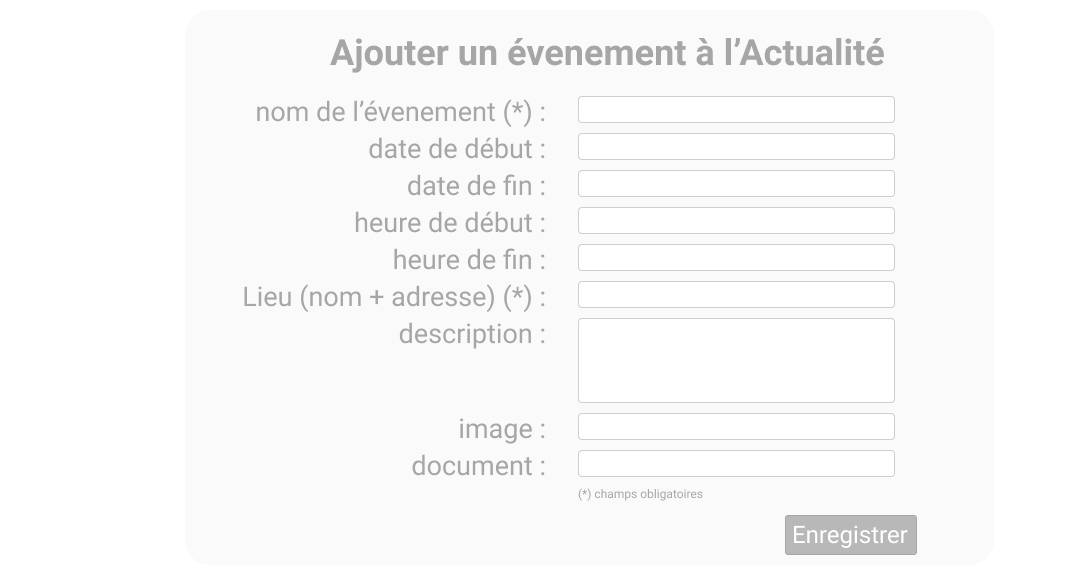
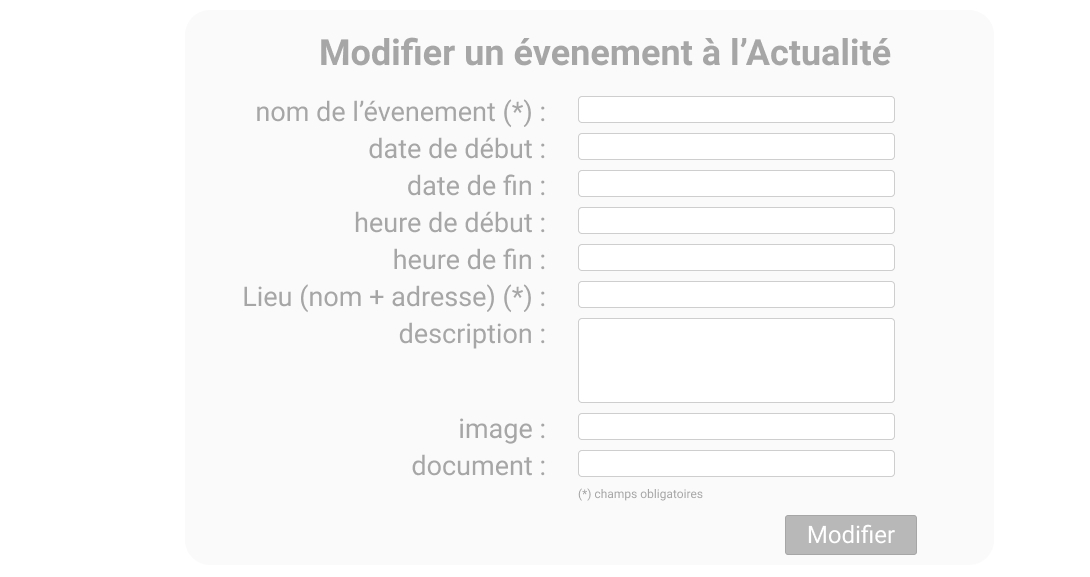
Intégration pages backend en HTML actu_add, actu_edit, actu_suppression, login

Changed region(s): [[0.2807, 0.0624, 0.811, 0.1248], [0.7174, 0.9047, 0.8422, 0.9671]]

diff --git a/CMS Backoffice/server php/views/actu_add.html b/CMS Backoffice/server php/views/actu_add.html
@@ -4,26 +4,69 @@
   <meta charset="UTF-8">
   <meta name="viewport" content="width=device-width, initial-scale=1.0">
   <meta http-equiv="X-UA-Compatible" content="ie=edge">
+  <link href="https://fonts.googleapis.com/css?family=Roboto:400,500,700" rel="stylesheet">
   <title>Ajout Actualité</title>
 </head>
 <body>
   <div id="container">
     <h1>Ajouter un évènement à l'Actualité</h1>
     <div id="form_login">
+
       <form method="post" action="./admin/login">
+
         <p class="champs">
-          <label for="username">Nom d'utilisateur</label><br />
-          <input type="text" name="username" id="username" size="30" />
+          <label for="nom_evenement">Nom de l'évènement (*)</label><br />
+          <input type="text" name="nom_evenement" id="nom_evenement" size="80" />
         </p>
+
         <p class="champs">
-          <label for="password">Mot de passe</label><br />
-          <input type="text" name="password" id="password" size="30" />
+          <label for="date_debut">Date de début</label><br />
+          <input type="date" name="date_debut" id="date_debut" size="80" />
+        </p>
+
+        <p class="champs">
+          <label for="date_fin">Date de fin </label><br />
+          <input type="date" name="date_fin" id="date_fin" size="80" />
+        </p>
+
+        <p class="champs">
+          <label for="heure_debut">Heure de début</label><br />
+          <input type="time" name="heure_debut" id="heure_debut" size="80" />
+        </p>
+
+        <p class="champs">
+          <label for="heure_fin">Heure de fin </label><br />
+          <input type="time" name="heure_fin" id="heure_fin" size="80" />
+        </p>
+
+        <p class="champs">
+          <label for="lieu">Lieu (nom + adresse)(*)</label><br />
+          <input type="text" name="lieu" id="lieu" size="80" />
+        </p>
+
+        <p class="champs">
+          <label for="description">Description</label><br />
+          <textarea type="text" name="description" id="description"></textarea>
+        </p>
+
+        <p class="champs">
+          <label for="image">Image</label><br />
+          <input type="file" name="image" id="image" size="80" />
+        </p>
+
+        <p class="champs">
+          <label for="document">Document</label><br />
+          <input type="file" name="document" id="document" size="80" />
+        </p>
 
         </p>
           <input id="bouton_seconnecter" type="submit" value="Ajouter" />
         </p>
-        <br />
+
       </form>
+
+      <p id="legende">(*) champs obligatoires</p>
+
     </div>
   </div>
 </body>

diff --git a/CMS Backoffice/server php/views/actu_edit.html b/CMS Backoffice/server php/views/actu_edit.html
@@ -1,0 +1,73 @@
+<!DOCTYPE html>
+<html lang="fr">
+<head>
+  <meta charset="UTF-8">
+  <meta name="viewport" content="width=device-width, initial-scale=1.0">
+  <meta http-equiv="X-UA-Compatible" content="ie=edge">
+  <link href="https://fonts.googleapis.com/css?family=Roboto:400,500,700" rel="stylesheet">
+  <title>Ajout Actualités</title>
+</head>
+<body>
+  <div id="container">
+    <h1>Ajouter un évènement à l'Actualité</h1>
+    <div id="form_login">
+
+      <form method="post" action="./admin/login">
+
+        <p class="champs">
+          <label for="nom_evenement">Nom de l'évènement (*)</label><br />
+          <input type="text" name="nom_evenement" id="nom_evenement" size="80" />
+        </p>
+
+        <p class="champs">
+          <label for="date_debut">Date de début</label><br />
+          <input type="date" name="date_debut" id="date_debut" size="80" />
+        </p>
+
+        <p class="champs">
+          <label for="date_fin">Date de fin </label><br />
+          <input type="date" name="date_fin" id="date_fin" size="80" />
+        </p>
+
+        <p class="champs">
+          <label for="heure_debut">Heure de début</label><br />
+          <input type="time" name="heure_debut" id="heure_debut" size="80" />
+        </p>
+
+        <p class="champs">
+          <label for="heure_fin">Heure de fin </label><br />
+          <input type="time" name="heure_fin" id="heure_fin" size="80" />
+        </p>
+
+        <p class="champs">
+          <label for="lieu">Lieu (nom + adresse)(*)</label><br />
+          <input type="text" name="lieu" id="lieu" size="80" />
+        </p>
+
+        <p class="champs">
+          <label for="description">Description</label><br />
+          <textarea type="text" name="description" id="description"></textarea>
+        </p>
+
+        <p class="champs">
+          <label for="image">Image</label><br />
+          <input type="file" name="image" id="image" size="80" />
+        </p>
+
+        <p class="champs">
+          <label for="document">Document</label><br />
+          <input type="file" name="document" id="document" size="80" />
+        </p>
+
+        </p>
+          <input id="bouton_seconnecter" type="submit" value="Modifier" />
+        </p>
+
+      </form>
+
+      <p id="legende">(*) champs obligatoires</p>
+
+    </div>
+  </div>
+</body>
+</html>

diff --git a/CMS Backoffice/server php/views/actu_list.html b/CMS Backoffice/server php/views/actu_list.html
@@ -1,8 +1,11 @@
 <!DOCTYPE html>
+<html lang="fr">
 <html>
   <head>
-    <meta charset="utf-8">
-    <title></title>
+    <meta charset="UTF-8">
+    <meta name="viewport" content="width=device-width, initial-scale=1.0">
+    <meta http-equiv="X-UA-Compatible" content="ie=edge">
+    <title>Liste Actualités</title>
   </head>
   <body>
     <repeat group="{{ @all_actu }}" value="{{ @fruit }}">

diff --git a/CMS Backoffice/server php/views/actu_suppression.html b/CMS Backoffice/server php/views/actu_suppression.html
@@ -1,0 +1,12 @@
+<!DOCTYPE html>
+<html lang="fr">
+<head>
+  <meta charset="UTF-8">
+  <meta name="viewport" content="width=device-width, initial-scale=1.0">
+  <meta http-equiv="X-UA-Compatible" content="ie=edge">
+  <title>Suppression Actualités</title>
+</head>
+<body>
+
+</body>
+</html>

diff --git a/CMS Backoffice/server php/views/login.html b/CMS Backoffice/server php/views/login.html
@@ -1,5 +1,5 @@
 <!DOCTYPE html>
-<html lang="en">
+<html lang="fr">
 <head>
   <meta charset="UTF-8">
   <meta name="viewport" content="width=device-width, initial-scale=1.0">

diff --git a/CMS Backoffice/server php/views/login.css b/CMS Backoffice/server php/views/login.css
@@ -1,3 +1,8 @@
+*
+{
+  font-family: 'Roboto', sans-serif;
+}
+
 #container
 {
 

diff --git a/CMS Backoffice/server php/views/actu_edit.css b/CMS Backoffice/server php/views/actu_edit.css
@@ -1,0 +1,4 @@
+*
+{
+  font-family: 'Roboto', sans-serif;
+}
